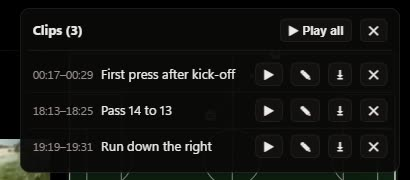
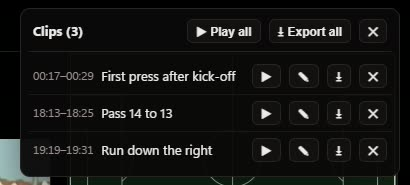
Film: Export all as one file, and Play all no longer hangs on the other half
The clip list gets a button that renders every clip into one video in match
order, through the existing export pipeline. Overlaps do not repeat, jumps fade.
Play all now plays the clips this half can reach.

diff --git a/apps/portal/assets/film-tools.js b/apps/portal/assets/film-tools.js
@@ -332,6 +332,30 @@ window.PTFilmTools = (function () {
     c.out = e.segs[e.segs.length - 1].b;
     e.freezes = e.freezes.filter(function (f) { return !!segAt(e, f.t); });
   }
+  /* Every clip of the list as one edit, in match order. Two clips around nearby
+     moments often overlap, and the second then starts where the first stopped, or
+     the file would show the same seconds twice. A jump between clips gets a fade,
+     because a hard cut between two passages of play reads as a glitch; a clip's
+     own cuts are left as the analyst made them. Works across the halves: the render
+     has its own video element, which is not held to the window on screen. */
+  function mergedEdit(list) {
+    var segs = [], freezes = [], texts = [], muted = list.length > 0;
+    list.slice().sort(function (x, y) { return x.in - y.in; }).forEach(function (c) {
+      var e = c.edit || newEdit(c);
+      e.segs.forEach(function (s, i) {
+        var last = segs[segs.length - 1], a = s.a;
+        if (last && a < last.b) a = last.b;
+        if (s.b - a < MIN_SEG) return;
+        var joined = last && Math.abs(a - last.b) < 0.02;
+        segs.push({ id: id(), a: a, b: s.b, speed: s.speed || 1,
+                    trans: i === 0 && last && !joined ? 'fade' : (s.trans || 'cut') });
+      });
+      freezes = freezes.concat(e.freezes || []);
+      texts = texts.concat(e.texts || []);
+      if (!e.mute) muted = false;
+    });
+    return { segs: segs, freezes: freezes, texts: texts, mute: muted };
+  }
   /* Where the picture dips to black, as a function of the source clock, so the
      preview and the file are the same fade. */
   function fadeAlpha(segs, t) {
@@ -1662,8 +1686,16 @@ window.PTFilmTools = (function () {
      already does the job: inside [c.in, c.out] exactly the shapes whose window
      overlaps that stretch are alive. c.shapes stays in the schema for the
      export, which may be asked to rebuild a clip the analyst has since erased. */
+  function inThisHalf(c) { return c.in >= ctx.win.start - 0.05 && c.out <= ctx.end() + 0.05; }
   function playClip(c) {
     if (!ctx) return;
+    /* Film holds playback inside the half on screen, so a clip from the other half
+       could never reach its end and a playlist would sit there for ever. */
+    if (!inThisHalf(c)) {
+      play = null;
+      toast('That clip is in the other half. Switch half to play it');
+      return;
+    }
     play = { clip: c, list: play && play.list, i: play && play.i };
     if (editor && editor.clip.id !== c.id) closeEditor();
     if (c.edit) beginPreview(c);
@@ -1672,8 +1704,10 @@ window.PTFilmTools = (function () {
     toast('▶ ' + c.title);
   }
   function playAll() {
-    var list = clips();
-    if (!list.length) { toast('No clips yet'); return; }
+    /* Only what this half can play. The list keeps every clip, and the other half
+       plays its own when the analyst switches to it. */
+    var list = clips().filter(inThisHalf);
+    if (!list.length) { toast(clips().length ? 'These clips are in the other half' : 'No clips yet'); return; }
     play = { list: list, i: 0, clip: list[0] };
     playClip(list[0]);
     play.list = list; play.i = 0;
@@ -1687,9 +1721,10 @@ window.PTFilmTools = (function () {
       toast('End of playlist');
       return;
     }
+    var keep = play.list;
     play.i++; play.clip = next;
     playClip(next);
-    play.list = clips(); play.i = play.i;
+    if (play) play.list = keep;
   }
 
   /* ---------------------------------------------------------------
@@ -3630,6 +3665,13 @@ window.PTFilmTools = (function () {
       var bAll = el('button', 'fmt-p-btn', '▶ Play all');
       bAll.type = 'button'; bAll.onclick = playAll;
       head.appendChild(bAll);
+      if (list.length > 1) {
+        var bOne = el('button', 'fmt-p-btn', '⭳ Export all');
+        bOne.type = 'button'; bOne.title = 'Export all as one file, in match order';
+        if (corsState === false) bOne.classList.add('off');
+        bOne.onclick = exportAll;
+        head.appendChild(bOne);
+      }
     }
     head.appendChild(bX);
     panel.appendChild(head);
@@ -3668,6 +3710,12 @@ window.PTFilmTools = (function () {
       row.appendChild(go); row.appendChild(ed); row.appendChild(dl); row.appendChild(rm);
       panel.appendChild(row);
     });
+  }
+  function exportAll() {
+    var list = clips();
+    if (list.length < 2) { toast('Make at least two clips first'); return; }
+    var e = mergedEdit(list);
+    exportClip(e.segs[0].a, e.segs[e.segs.length - 1].b, 'Highlights', e);
   }
   function renderTagPanel() {
     var pls = (tagData && tagData.playlists) || [];
@@ -4411,7 +4459,7 @@ window.PTFilmTools = (function () {
       homography: homography, applyH: applyH, collinear: collinear, polyArea: polyArea,
       pitchMarks: pitchMarks, fmtLen: fmtLen, fmtArea: fmtArea, newEdit: newEdit,
       segAt: segAt, splitAt: splitAt, trimSeg: trimSeg, dropSeg: dropSeg, syncClip: syncClip,
-      fadeAlpha: fadeAlpha, planOf: planOf, cueAt: cueAt, cuePlayer: cuePlayer,
+      fadeAlpha: fadeAlpha, planOf: planOf, mergedEdit: mergedEdit, exportAll: exportAll, playAll: playAll, cueAt: cueAt, cuePlayer: cuePlayer,
       startLink: startLink, finishCollect: finishCollect, startMeasure: startMeasure,
       openCalib: openCalib, applyCalib: applyCalib, setTrack: setTrack, keyTimes: keyTimes,
       placeAdjust: placeAdjust, removeKeyAt: removeKeyAt, freezeDraw: freezeDraw,
@@ -4420,7 +4468,7 @@ window.PTFilmTools = (function () {
       undoEdit: undoEdit, runEdit: runEdit, openTag: openTag, saveTagForm: saveTagForm,
       pickCode: pickCode, canTag: canTag, canShare: canShare, loadTags: loadTags,
       removeTag: removeTag, fileToPlaylist: fileToPlaylist, renderPanel: renderPanel,
-      togglePanel: togglePanel, tagList: tagList,
+      togglePanel: togglePanel, tagList: tagList, frame: frame,
       ui: function () {
         return { insp: insp, editor: editor, collect: collect, calDraft: calDraft, cal: cal,
                  tagData: tagData, scope: scope, units: units, hold: hold, previewRate: previewRate,

diff --git a/apps/portal/guide.html b/apps/portal/guide.html
@@ -705,7 +705,8 @@
         <table class="g-tbl">
           <thead><tr><th>Control</th><th>What it does</th></tr></thead>
           <tbody>
-            <tr><td>&#9654; Play all</td><td>play every clip in order, back to back — your team meeting, in one press</td></tr>
+            <tr><td>&#9654; Play all</td><td>play the clips of the half you are on, in order, back to back — your team meeting, in one press</td></tr>
+            <tr><td>&#11015; Export all</td><td>render every clip into <strong>one video file</strong>, in match order, from both halves. See below</td></tr>
             <tr><td>&#9654; on a row</td><td>play that clip</td></tr>
             <tr><td>&#9998; on a row</td><td>open that clip in the clip editor</td></tr>
             <tr><td>&#11015; on a row</td><td>render that clip to an .mp4 on your computer, graphics included</td></tr>
@@ -720,6 +721,18 @@
           this match, not uploaded and not shared. To give somebody a clip, download it with
           <strong>&#11015;</strong> and send them the file.</p>
       </div>
+
+      <h3>A highlight reel: every clip in one file</h3>
+      <p>Filter the list to what you want, for example the shooting events. Click a row and press
+        <kbd>A</kbd> to save a clip around it, then repeat down the list. Do the same in the other half.
+        Press <kbd>C</kbd>, then <strong>&#11015; Export all</strong>.</p>
+      <ul class="g-bul">
+        <li>The clips are joined <strong>in match order</strong>, with a short fade between them.</li>
+        <li>Two clips that overlap do not repeat those seconds.</li>
+        <li>Everything you did in the clip editor is kept: speeds, freezes, captions, cuts.</li>
+        <li>It takes as long as the finished film runs, so a 6-minute reel takes about 6 minutes. Keep
+          the tab visible.</li>
+      </ul>
 
       <h3>The clip editor</h3>
       <p>Press <kbd>E</kbd> on a clip, or anywhere in the match to make a clip around the moment
@@ -773,10 +786,11 @@
       <figure class="g-shot">
         <figcaption>The clip list</figcaption>
         <a class="g-shot-frame" style="max-width:560px" href="assets/guide/16-clips.jpg" target="_blank" rel="noopener" title="Open full size">
-          <img src="assets/guide/16-clips.jpg" width="410" height="180" loading="lazy" decoding="async" alt="The clip drawer with one row for each clip and four buttons on the row."><span class="g-pin" style="left:66%;top:14%">1</span><span class="g-pin" style="left:65.6%;top:29.5%">2</span><span class="g-pin" style="left:74.5%;top:29.5%">3</span><span class="g-pin" style="left:83%;top:29.5%">4</span><span class="g-pin" style="left:91.2%;top:29.5%">5</span>
+          <img src="assets/guide/16-clips.jpg" width="410" height="185" loading="lazy" decoding="async" alt="The clip drawer with one row for each clip and four buttons on the row."><span class="g-pin" style="left:54.6%;top:27%">1</span><span class="g-pin" style="left:75.6%;top:27%">2</span><span class="g-pin" style="left:65%;top:51%">3</span><span class="g-pin" style="left:74%;top:51%">4</span><span class="g-pin" style="left:82.6%;top:51%">5</span><span class="g-pin" style="left:91%;top:51%">6</span>
         </a>
         <ol class="g-key">
-          <li>Play every clip in order.</li>
+          <li>Play the clips of this half in order.</li>
+          <li>Render every clip into one video file.</li>
           <li>Play this clip.</li>
           <li>Open it in the clip editor.</li>
           <li>Render it to an .mp4 on your computer.</li>

diff --git a/tests/film-toolkit.test.js b/tests/film-toolkit.test.js
@@ -533,6 +533,66 @@ test('the preview stops on a freeze, and stops at the end of the clip', () => {
   eq(v.paused,true,'the end of the clip');
 });
 
+/* ---- every clip in one file ---- */
+test('clips join in match order, with a fade across each jump', () => {
+  const {I}=mounted();
+  const e=I.mergedEdit([{in:300,out:312},{in:100,out:112}]);
+  eq(e.segs.map(s=>s.a).join(),'100,300');
+  eq(e.segs[0].trans,'cut','nothing to fade from at the start');
+  eq(e.segs[1].trans,'fade');
+  eq(I.planOf(100,312,e,[]).total,24);
+});
+test('two clips that overlap do not repeat those seconds', () => {
+  const {I}=mounted();
+  const e=I.mergedEdit([{in:100,out:112},{in:108,out:120}]);
+  eq(e.segs.map(s=>s.a+'-'+s.b).join(),'100-112,112-120');
+  eq(e.segs[1].trans,'cut','it simply carries on, so there is nothing to fade');
+  eq(I.planOf(100,120,e,[]).total,20);
+});
+test('a clip inside the last one adds nothing', () => {
+  const {I}=mounted();
+  eq(I.mergedEdit([{in:100,out:120},{in:105,out:110}]).segs.length,1);
+});
+test('the edits of each clip survive the join', () => {
+  const {I}=mounted();
+  const a={in:100,out:110};a.edit=I.newEdit(a);I.splitAt(a.edit,105);a.edit.segs[1].speed=0.5;
+  a.edit.freezes.push({id:'f',t:106,hold:2});a.edit.texts.push({id:'x',a:101,b:103,text:'Goal'});
+  const e=I.mergedEdit([{in:200,out:204},a]);
+  eq(e.segs.map(s=>s.speed).join(),'1,0.5,1');
+  eq(e.segs[1].trans,'cut','a cut the analyst made is left alone');
+  eq(e.texts.length,1);
+  eq(I.planOf(100,204,e,[]).total,5+10+4+2);
+});
+test('the file keeps its sound unless every clip was muted', () => {
+  const {I}=mounted();
+  const a={in:1,out:5};a.edit=I.newEdit(a);a.edit.mute=true;
+  const b={in:9,out:15};b.edit=I.newEdit(b);b.edit.mute=true;
+  eq(I.mergedEdit([a,b]).mute,true);
+  eq(I.mergedEdit([a,{in:20,out:25}]).mute,false);
+});
+test('the button is there from two clips, and one clip says why not', () => {
+  const m=mounted();
+  m.I.saveClip(10,20,'a');
+  m.I.exportAll();
+  eq(m.I.ui().exportTexts,null,'nothing started');
+  ok(/'⭳ Export all'/.test(TOOLS));
+  ok(/list\.length > 1/.test(TOOLS));
+});
+test('a playlist plays the clips this half can reach, and never hangs on the others', () => {
+  const m=mounted({win:{half:1,label:'1st Half',start:0,end:100},end:()=>100});
+  m.I.saveClip(10,20,'a');m.I.saveClip(30,40,'b');m.I.saveClip(200,210,'second half');
+  m.I.playAll();
+  eq(m.v.currentTime,10);
+  m.I.frame(20.1);
+  eq(m.v.currentTime,30,'on to the next');
+  m.v.paused=false;
+  m.I.frame(40.1);
+  eq(m.v.paused,true,'and it stops at the end of this half rather than waiting for ever');
+});
+test('Export all renders through the same pipeline, so nothing can upload', () => {
+  ok(/exportClip\(e\.segs\[0\]\.a, e\.segs\[e\.segs\.length - 1\]\.b, 'Highlights', e\)/.test(TOOLS));
+});
+
 /* ---- the export, against the source ---- */
 test('a render jumps a gap with the recorder paused, and gives up rather than hang', () => {
   ok(/rec\.pause\(\)/.test(TOOLS),'the file holds no gap');

diff --git a/apps/portal/assets/app.js b/apps/portal/assets/app.js
@@ -1942,7 +1942,7 @@
          exports exist in the channel and nowhere else. It registers itself with
          the mounted view through the one hook stats-view.js publishes; a host
          that never loads it is a host where none of it exists. */
-      .then(function () { return loadOnce('assets/film-tools.js?v=7'); })
+      .then(function () { return loadOnce('assets/film-tools.js?v=8'); })
       .then(function () {
         loadOnce('assets/film-tools.css?v=5', 'css');
         if (window.PTStats && window.PTStats.registerFilmTools && window.PTFilmTools)

diff --git a/apps/portal/app.html b/apps/portal/app.html
@@ -82,6 +82,6 @@
 
 <script src="https://cdn.jsdelivr.net/npm/@supabase/supabase-js@2.118.0"></script>
 <script src="assets/supa.js?v=19"></script>
-<script src="assets/app.js?v=64"></script>
+<script src="assets/app.js?v=65"></script>
 </body>
 </html>
